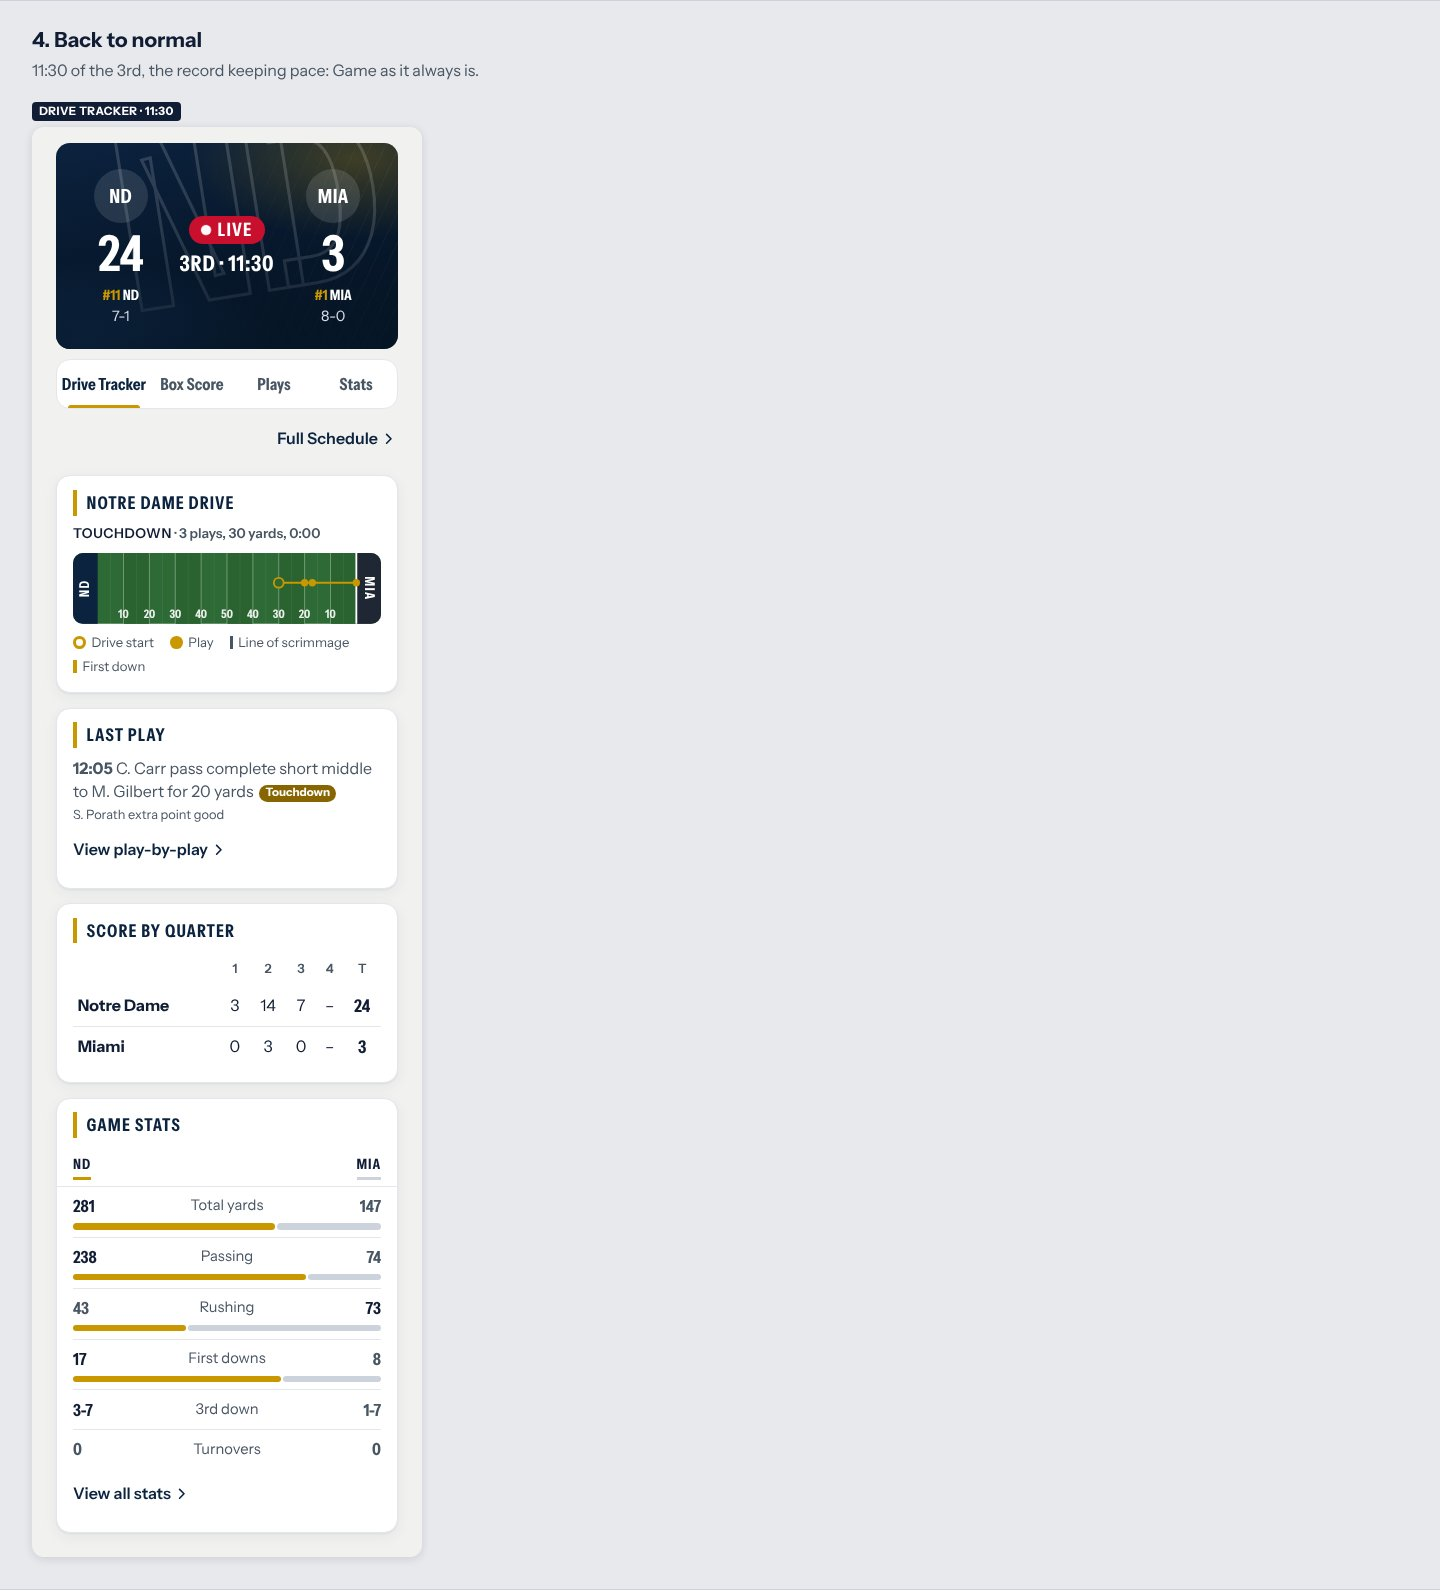
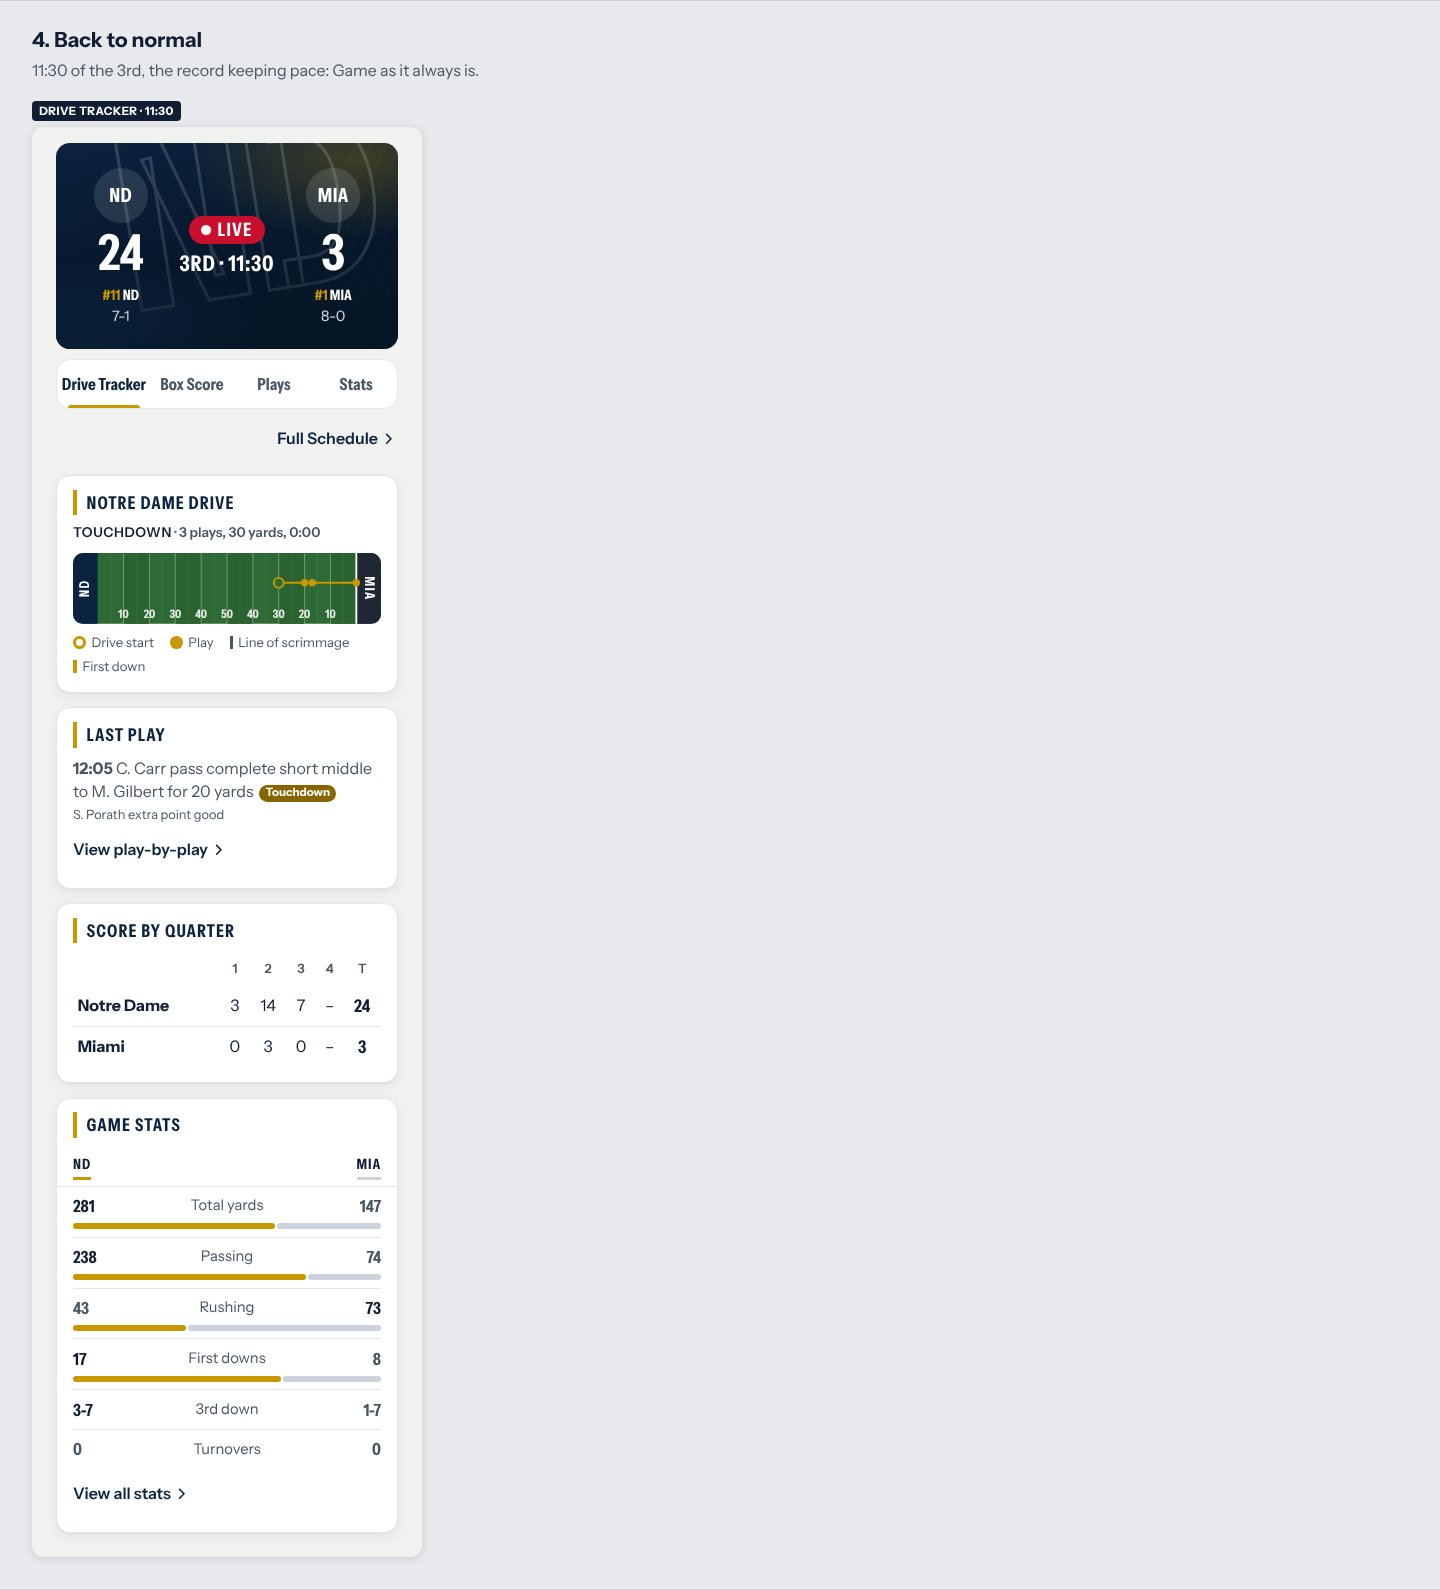
Play-by-play freshness: neutral drive card while the record is behind (David's decisions)
David, 2026-11-08, after the first screenshots: while the record is
behind, nothing of its drive is shown as current - at 12:05 it called the
drive Notre Dame's while Miami had the ball. The drive card becomes
'Latest recorded drive' in the platform's neutral colours and face, with
'Drive details updating', no field drawing, no legend, no team colour, and
a quiet panel the field's size: 'Drive and field position return when the
play-by-play catches up.' The team's card, field and colours come back
when the record does. Last Play keeps the latest recorded play with its
own quarter, clock and team as recorded ('3rd · 15:00 · ND'; no Q3).
Specimen, screenshots and design record updated. VERSION pbp3.

Claude-Session: https://claude.ai/code/session_01PVKWhYGhP11JVh9fWHsJmq

diff --git a/suite/game.js b/suite/game.js
@@ -428,8 +428,16 @@ Suite.game = (function () {
   function driveCard(m) {
     var d = m.detail && m.detail.drives && m.detail.drives.current;
     if (!d) return "";
-    var late = behind(m);
-    if (late) d = Object.assign({}, d, { summary: "", result: "" });
+    // While the record is behind, nothing of the drive it holds is shown as
+    // current - not whose drive it is, not where the ball is, not a count
+    // (David, 2026-11-08: at 12:05 the record called it Notre Dame's drive
+    // while Miami had the ball). A neutral card in the platform's own
+    // colours says the drive will be back; the field returns with the record.
+    if (behind(m)) {
+      return card("Latest recorded drive",
+        '<div class="pbp-drive-wait"><p>Drive and field position return when the play-by-play catches up.</p></div>',
+        '<span class="gcard-note pbp-updating">Drive details updating</span>', "gcard-drive gcard-neutral");
+    }
     var svg = field(d, m);
     if (!svg) return "";
     var color = driveColor(d, m), who = d.mine ? m.team.name : (m.game.oppName || "Opponent");
@@ -438,8 +446,7 @@ Suite.game = (function () {
       '<li><span class="k los"></span>Line of scrimmage</li><li><span class="k first"></span>First down</li></ul></div>',
       // A finished drive says how it ended ("Touchdown", "Turnover on downs")
       // - the card stays up between possessions until the next snap.
-      (late ? '<span class="gcard-note pbp-updating">Drive details updating</span>' :
-       d.result || d.summary ? '<span class="gcard-note">' + (d.result ? '<span class="f-result">' + esc(d.result) + "</span>" + (d.summary ? " · " : "") : "") +
+      (d.result || d.summary ? '<span class="gcard-note">' + (d.result ? '<span class="f-result">' + esc(d.result) + "</span>" + (d.summary ? " · " : "") : "") +
         esc(d.summary || "") + "</span>" : ""), "gcard-drive");
   }
 
@@ -448,10 +455,15 @@ Suite.game = (function () {
     if (behind(m)) {
       // The latest play the record holds, with its own quarter and clock -
       // not the situation after it, which the record has not caught up with.
-      var p = m.feed.play;
+      // Its team is the record's attribution, as recorded (a kickoff is the
+      // kicking team's), said as the record has it - with the play, not as
+      // whose ball it is now.
+      var p = m.feed.play, gd = m.detail || {}, tid = p.start && p.start.teamId;
+      var side = tid && gd.home && gd.home.key === tid ? gd.home : tid && gd.away && gd.away.key === tid ? gd.away : null;
       return card("Last play", '<div class="pbp-fresh"><p class="pbp-fresh-title">Play-by-play is catching up</p>' +
           '<p class="pbp-fresh-sub">The game clock is ahead of the latest recorded play.</p></div>' +
-        '<p class="lp-text"><span class="lp-at">' + esc(ordinal(+p.period)) + " \u00B7 " + esc(p.clock) + "</span> " + keepNames(p.text) +
+        '<p class="lp-text"><span class="lp-at">' + esc(ordinal(+p.period)) + " \u00B7 " + esc(p.clock) +
+          (side && side.abbreviation ? " \u00B7 " + esc(side.abbreviation) : "") + "</span> " + keepNames(p.text) +
           (p.tags && p.tags.length ? " " + playTags(p.tags) : "") + "</p>" +
         playNotes(p.notes) +
         '<a class="sec-link" href="' + esc(base(m)) + '/plays">View play-by-play' + CHEVRON + "</a>");

diff --git a/tools/specimen/pbp-freshness.js b/tools/specimen/pbp-freshness.js
@@ -63,12 +63,12 @@
         "14:50 of the 3rd: the record has the kickoff, ten seconds of game time ago. Nothing to say; Game reads as it always has.",
         [panel("Drive Tracker · 14:50", ND, "team", game("14:50", 17), behind, false)]);
       sec("behind", "2. Play-by-play catching up",
-        "12:05 of the 3rd, the record still at the 15:00 kickoff: 2:55 of game time ahead. The Last Play card says so, calmly, and keeps the latest recorded play with its own quarter and clock; the drive card stops quoting '0 plays, 0 yards' and says its details are updating. One state, one indicator. No warning colour, nothing animated. Announced once to screen readers, politely.",
+        "12:05 of the 3rd, the record still at the 15:00 kickoff: 2:55 of game time ahead. The Last Play card says so, calmly, and keeps the latest recorded play with its own quarter, clock and team as the record has them. The drive card shows nothing of the stale drive as current: 'Latest recorded drive', 'Drive details updating', no field, no legend, no team colour, and a quiet panel saying the drive returns with the record (decided by David, 2026-11-08). One state, one indicator. No warning colour, nothing animated. Announced once to screen readers, politely.",
         [panel("Team Style · Notre Dame", ND, "team", game("12:05", 17), behind, false),
          panel("Suite Style", ND, "suite", game("12:05", 17), behind, false),
-         panel("Team Style · Ohio State colours", OSU, "team", game("12:05", 17), behind, false)]);
+         panel("Ohio State colours · same ND game", OSU, "team", game("12:05", 17), behind, false)]);
       sec("batch", "3. The delayed plays arrive",
-        "The nine plays land in one refresh. The indicator goes; the drive card and Last Play read the record's own words again. On Plays they appear as ordinary drives (newest first, as the list always is), each drive's plays in the order they were played - Miami's drive and punt, then Notre Dame's touchdown drive - stamped 12:05 as the record has them. No moment, no replay, no catch-up animation: this is reconciliation, not a live moment.",
+        "The nine plays land in one refresh. The indicator goes; the team's drive card, its field and its colours come back, and Last Play reads the record's own words again. On Plays they appear as ordinary drives (newest first, as the list always is), each drive's plays in the order they were played - Miami's drive and punt, then Notre Dame's touchdown drive - stamped 12:05 as the record has them. No moment, no replay, no catch-up animation: this is reconciliation, not a live moment.",
         [panel("Drive Tracker · caught up", ND, "team", game("12:05", 24), caught, true),
          panel("Plays · the batch, opened", ND, "team", game("12:05", 24), caught, true, "plays", { "drive-40185829118": true, "drive-40185829119": true })]);
       sec("again", "4. Back to normal",

diff --git a/tools/pbpfreshcheck.js b/tools/pbpfreshcheck.js
@@ -101,8 +101,12 @@ function draw(det, feed, view) {
 console.log("Game, while the record is behind");
 var hb = draw(DET_BEHIND, s1);
 ok(/Play-by-play is catching up/.test(hb) && /The game clock is ahead of the latest recorded play\./.test(hb), "the Last Play card says the play-by-play is catching up, and why");
-ok(/<span class="lp-at">3rd · 15:00<\/span> M\. ?Drescher kickoff/.test(hb.replace(/&nbsp;| /g, " ")), "the latest logged play stays, with its own quarter and clock");
-ok(/Drive details updating/.test(hb) && !/0 plays, 0 yards/.test(hb), "the drive card: 'Drive details updating', not '0 plays, 0 yards'");
+ok(/<span class="lp-at">3rd · 15:00 · ND<\/span> M\. ?Drescher kickoff/.test(hb.replace(/&nbsp;|\u00A0/g, " ")), "the latest logged play stays, with its own quarter, clock and team as the record has them");
+ok(/Latest recorded drive/.test(hb) && /Drive details updating/.test(hb), "the drive card: 'Latest recorded drive', 'Drive details updating'");
+ok(!/Notre Dame drive|Miami drive/i.test(hb) && !/0 plays, 0 yards/.test(hb), "no team named as having the drive, and no count");
+ok(!/class="field"/.test(hb) && !/f-legend/.test(hb), "no field drawing and no legend: no stale ownership or field position");
+ok(/gcard-neutral/.test(hb) && !/--drive:/.test(hb), "the platform's neutral treatment, no team colour on the drive");
+ok(/Drive and field position return when the play-by-play catches up\./.test(hb), "a quiet placeholder says the drive comes back with the record");
 ok((hb.match(/catching up/g) || []).length === 1, "one indicator, in one place: the drive card does not repeat it");
 ok(!/lp-dd/.test(hb), "no down and distance from the record: it has not caught up with the situation");
 ok(!/animation|pbp-pulse|spinner/i.test(hb), "no spinner, nothing animated");
@@ -111,6 +115,7 @@ console.log("Game, the record caught up");
 var hc = draw(DET_CAUGHT, s2);
 ok(!/catching up/.test(hc) && !/Drive details updating/.test(hc), "the indicator is gone");
 ok(/Carr|C\.Carr|C\. Carr/.test(hc) && /3 plays, 30 yards/.test(hc), "the latest play and the drive's own description are back");
+ok(/Notre Dame drive/i.test(hc) && /class="field"/.test(hc) && !/gcard-neutral/.test(hc), "caught up: the team's drive card and its field are back");
 var hp = draw(DET_CAUGHT, s2, "plays").replace(/ /g, " ");
 var order = [], from = 0;
 ["M. Drescher kickoff 30 yards", "D. Mensah rush middle for 13 yards", "D. Joyce punt 59 yards", "M. Gilbert"].forEach(function (t) {

diff --git a/app.css b/app.css
@@ -819,6 +819,14 @@ html[data-style="suite"] .bar-context{border-color:#B8845A}
 .pbp-fresh-title{margin:0;font-weight:700;font-size:.95rem;color:var(--s-ink)}
 .pbp-fresh-sub{margin:.15rem 0 0;font-size:.85rem;color:var(--s-ink-2)}
 .pbp-updating{font-weight:600}
+/* The drive card while the record is behind: the platform's own colours and
+   face, never a team's (whose drive it was is what the record cannot say),
+   and in the field's place a quiet panel the field's own size, so the page
+   does not jump when the drive comes back. */
+.gcard-neutral .gcard-title{border-left-color:var(--s-muted);color:var(--s-ink);font-family:'Instrument Display',sans-serif}
+.pbp-drive-wait{display:flex;align-items:center;justify-content:center;aspect-ratio:1000/230;padding:.75rem 1rem;border-radius:10px;background:var(--s-inset);
+  text-align:center}
+.pbp-drive-wait p{margin:0;max-width:22rem;font-size:.9rem;line-height:1.35;color:var(--s-ink-2)}
 
 .sp-row{display:grid;grid-template-columns:auto 1fr auto;column-gap:.6rem;row-gap:.3rem;padding:.75rem 0}
 .sp-list > li + li{border-top:1px solid var(--s-line)}

diff --git a/sw.js b/sw.js
@@ -28,7 +28,7 @@
    reloaded page draws from cache with no network wait. A first install
    reloads nothing: that page is already this version. */
 
-var VERSION = "suite-2026-11-08pbp2";
+var VERSION = "suite-2026-11-08pbp3";
 var SHELL   = VERSION + "-shell";
 var DATA    = VERSION + "-data";
 

diff --git a/docs/design/pbp-freshness.md b/docs/design/pbp-freshness.md
@@ -1,6 +1,6 @@
 # Play-by-play freshness state
 
-**Status:** creative direction from ChatGPT (Creative Director), 2026-11-08. Implemented for creative review; the visual implementation is not yet approved. David agreed to the improvement on 2026-11-08.
+**Status:** creative direction from ChatGPT (Creative Director), 2026-11-08, approved directionally by David the same day. He also decided the quarter format and the drive card (below). The revised visual implementation is in for creative review and is not yet approved. No merge is authorized.
 
 ## Why
 
@@ -20,11 +20,11 @@ The game is continuing normally; the play-by-play record is temporarily behind. 
 | Direction | Implementation |
 |---|---|
 | **Placement: Last Play card** is the primary status | `suite/game.js lastPlay()`: a small neutral note above the latest recorded play |
-| **Placement: Drive Tracker** is quieter, with misleading descriptions and counts suppressed | `driveCard()`: "Drive details updating" in place of the description; the field drawing's label drops the description too |
+| **Placement: Drive Tracker** is quieter, and nothing of the stale drive is presented as current (David's decision) | `driveCard()`: the title becomes "Latest recorded drive" in the platform's neutral colours and face, never a team's. The supporting line is "Drive details updating". The field drawing and legend are removed, replaced by a quiet inset panel of the same size: "Drive and field position return when the play-by-play catches up." The team's card, field and colours come back when the record catches up |
 | **Placement: Home** shows no indicator | Home is untouched |
 | **One shared state**, no conflicting indicators | `TeamOS.game.feedState()` is computed once per draw (`app.js feedOf()`); both cards read `m.feed` |
 | **Copy:** "Play-by-play is catching up" / "The game clock is ahead of the latest recorded play." / "Drive details updating" | As given; provider-neutral |
-| **Keep the latest logged play visible**, with its quarter and clock | Shown as "3rd · 15:00 …". The down and distance from the record are not shown while it is behind, since they describe the situation it has not caught up with |
+| **Keep the latest logged play visible**, with its quarter, clock and team attribution | Shown as "3rd · 15:00 · ND …": the Game screen's own quarter format (David: no "Q3"), and the team the record attributes the play to (a kickoff is the kicking team's). The down and distance from the record are not shown while it is behind, since they describe the situation it has not caught up with |
 | **Visual:** small, restrained, neutral; no warning colours, spinner or animation | Inset surface, a neutral rule, ink and secondary ink. The same in both App Styles and for every team: nothing in it takes a team colour |
 | **Detection:** existing data only; 90 s threshold; new quarter counts only as its clock runs | Game time elapsed from the scoreboard's clock and quarter against the latest logged play's. A quarter turning over is no gap. Regulation only, since overtime has no clock |
 | **Clearing:** when caught up | Behind at 90 s or more; caught up under 60 s, so a gap near the line doesn't flicker |
@@ -36,6 +36,11 @@ The game is continuing normally; the play-by-play record is temporarily behind. 
 - `tools/pbpfreshcheck.js` runs on ESPN's real payload for this game (`tools/fixtures/espn-summary-nd-mia-live-caughtup.json`). The "behind" record is that capture cut back to the kickoff, as David's screenshot shows it.
 - The specimen is `tools/specimen/pbp-freshness.html`, with screenshots in `docs/design/review/2026-11-08-pbp-freshness/`. It shows four states: normal, catching up, the batch arriving, and back to normal.
 
-## Open question for creative review
+## Decided
 
-The drive card's **title** comes from the record too. At 12:05 it read "Notre Dame drive" while Miami had the ball, because the record had filed the kickoff under Notre Dame. The direction suppresses descriptions and counts, so the title is kept. Should it read something neutral, such as "Latest recorded drive", while the record is behind?
+David, 2026-11-08, after the first screenshots:
+
+- **Quarter format:** "3rd · 15:00", matching the Game screen.
+- **Drive card while behind:** "Latest recorded drive", neutral platform styling, no field or legend, and a neutral placeholder. Restored when the record catches up.
+
+The placeholder's sentence is Claude's wording, from the direction's own intent, and is up for creative review.
